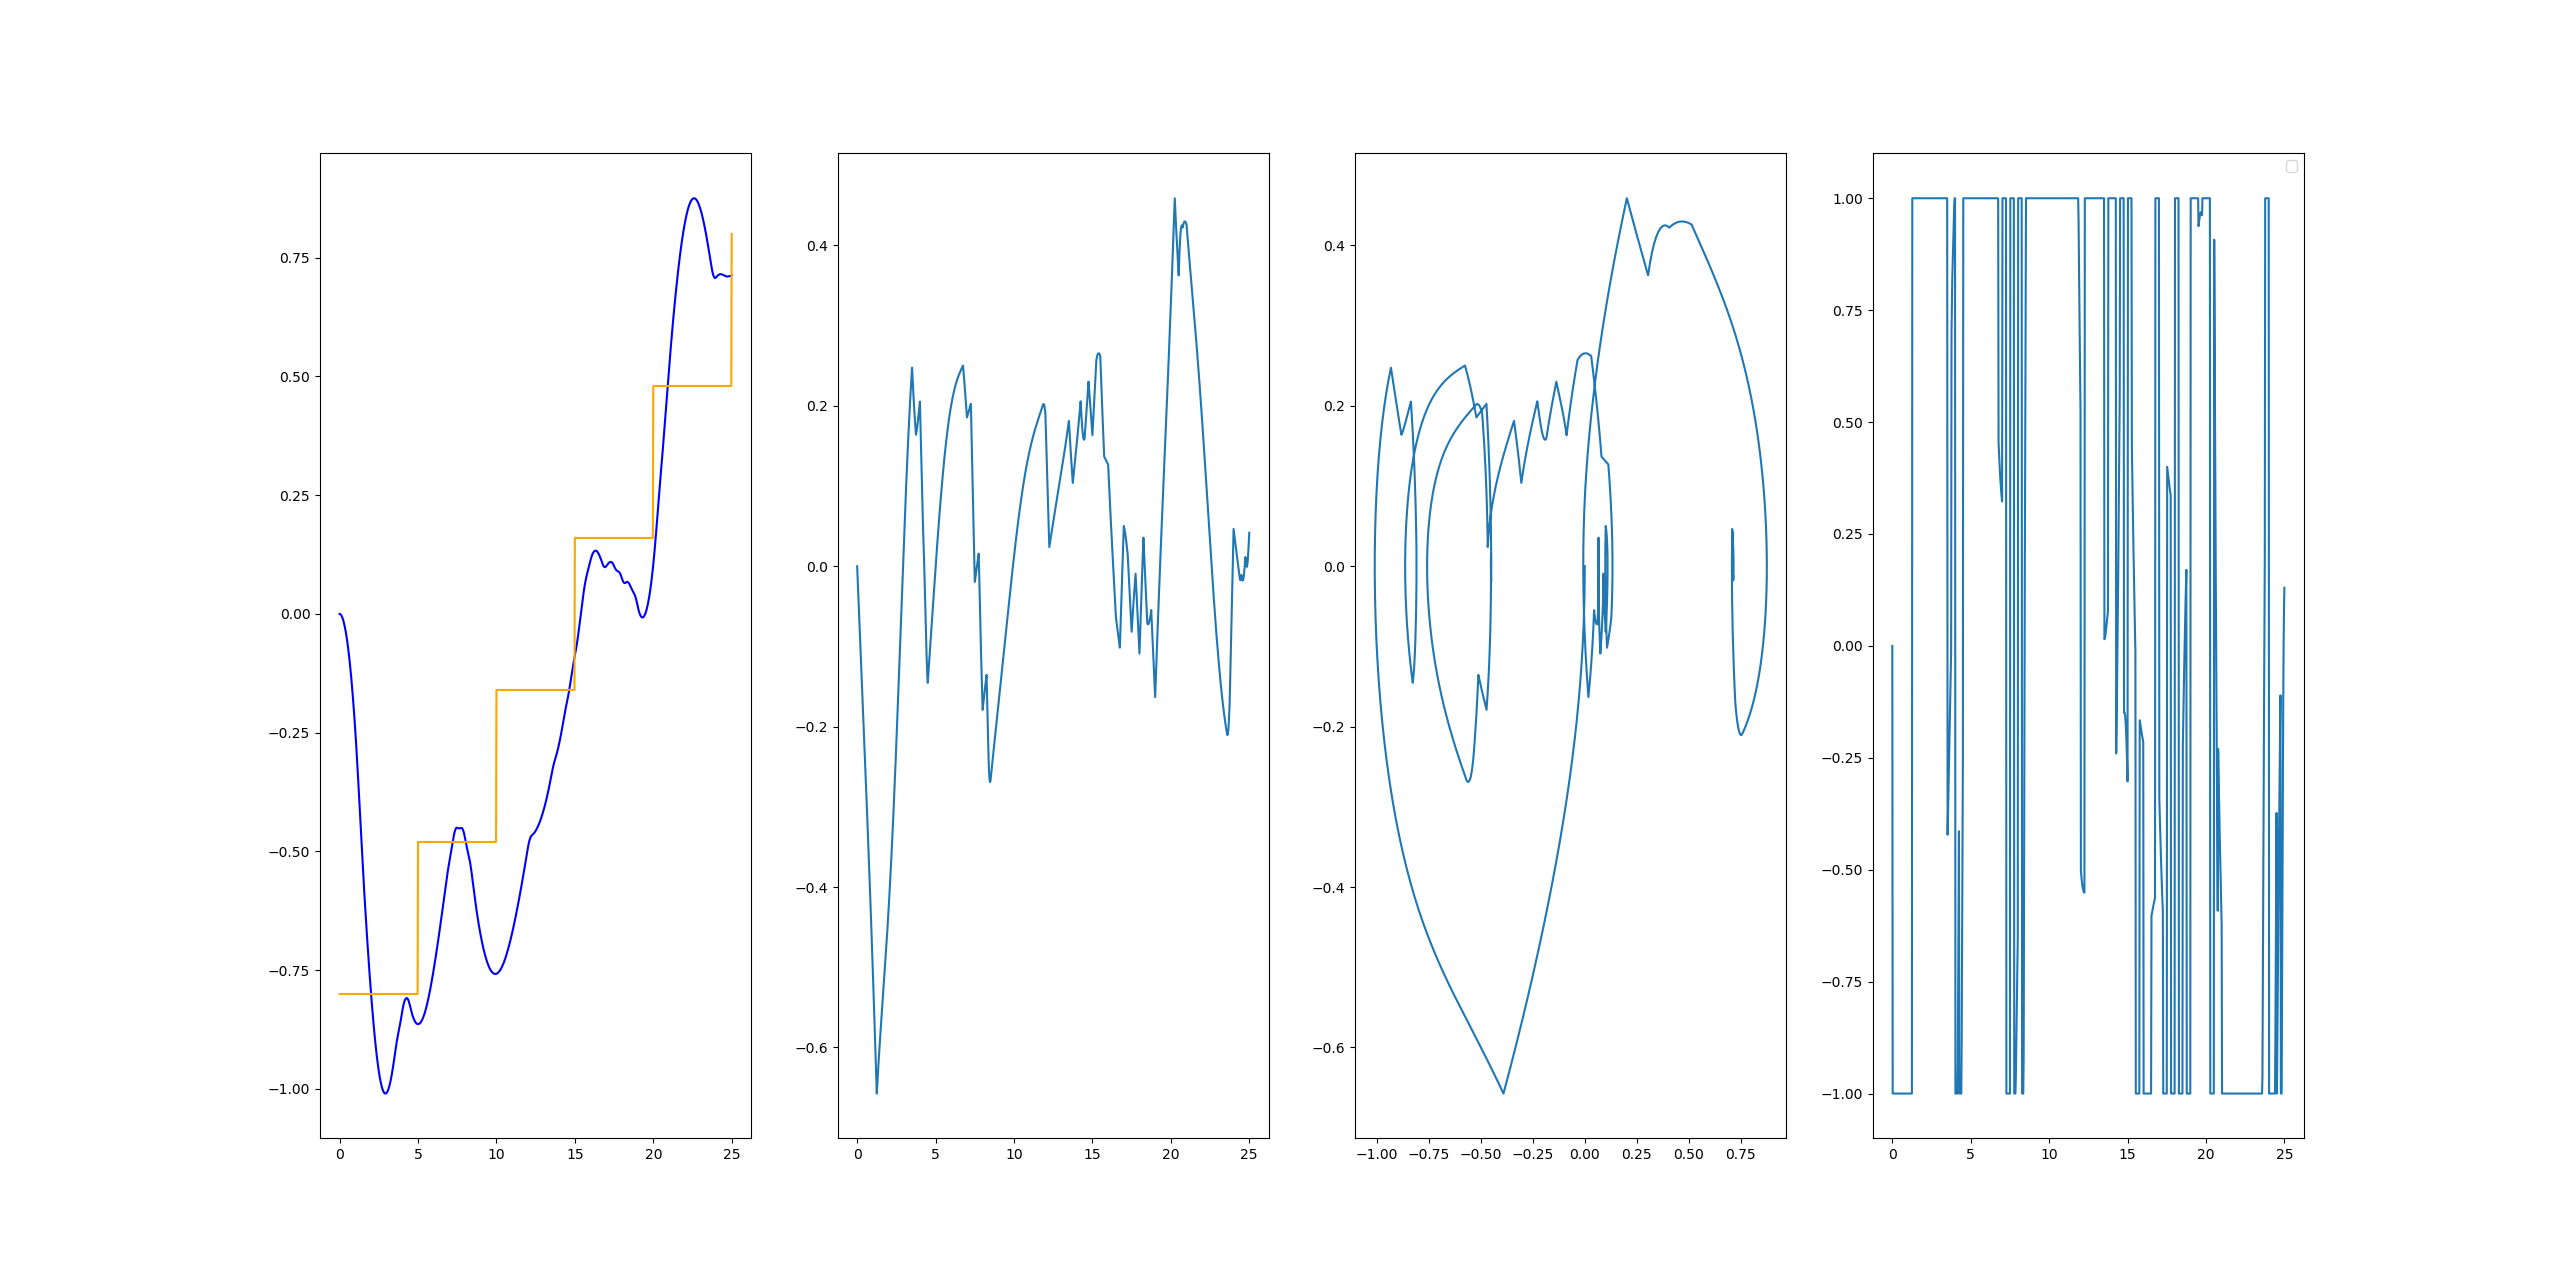
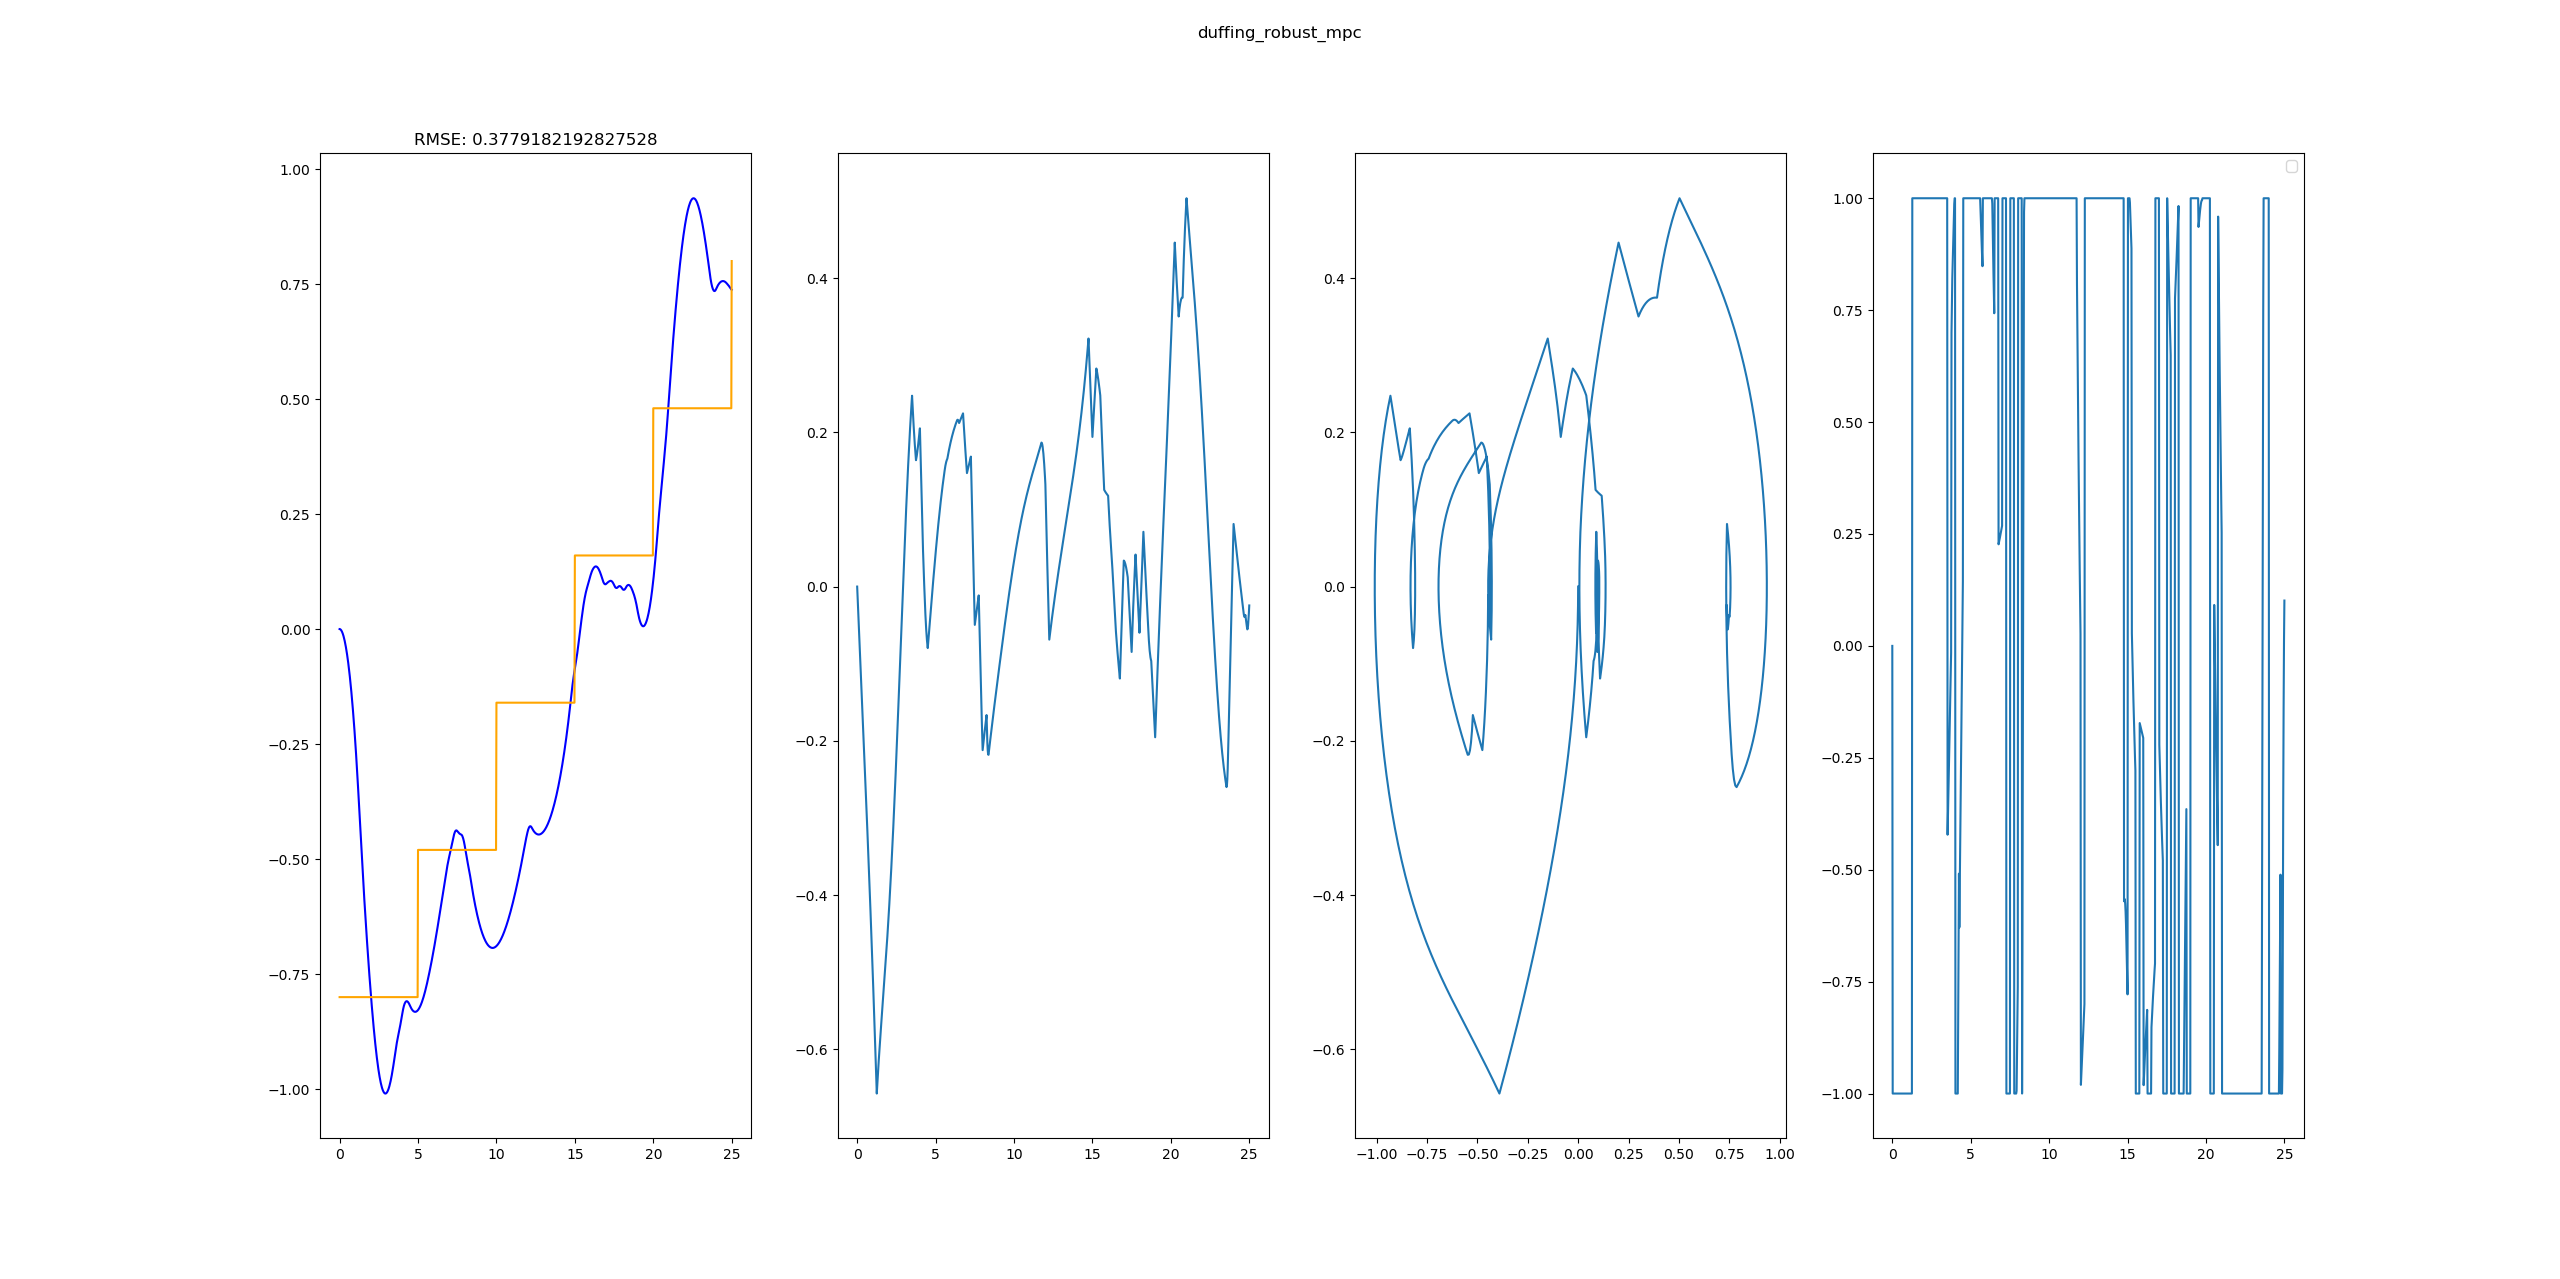
simpler result

diff --git a/experiments/mpc_plot.py b/experiments/mpc_plot.py
@@ -6,8 +6,9 @@ import matplotlib.pyplot as plt
 from sampler.utils import *
 
 # name = 'duffing_robust_mpc'
+name = 'duffing_robust_mpc_tmp'
 # name = 'duffing_mpc'
-name = 'duffing_mpc_tmp'
+# name = 'duffing_mpc_tmp'
 results = hkl.load(f'saved/{name}.hkl')
 
 t = results['t']
